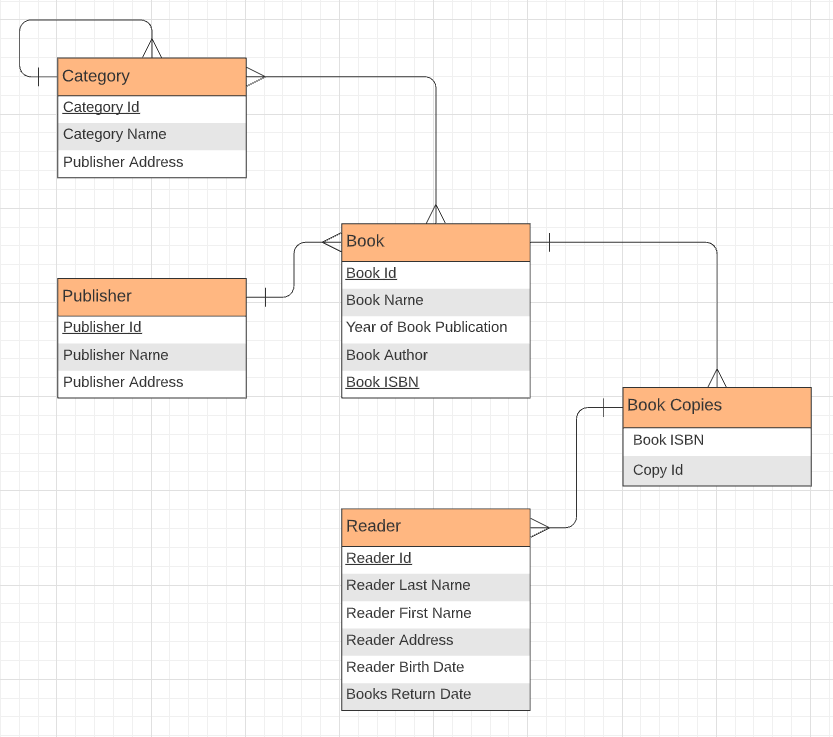
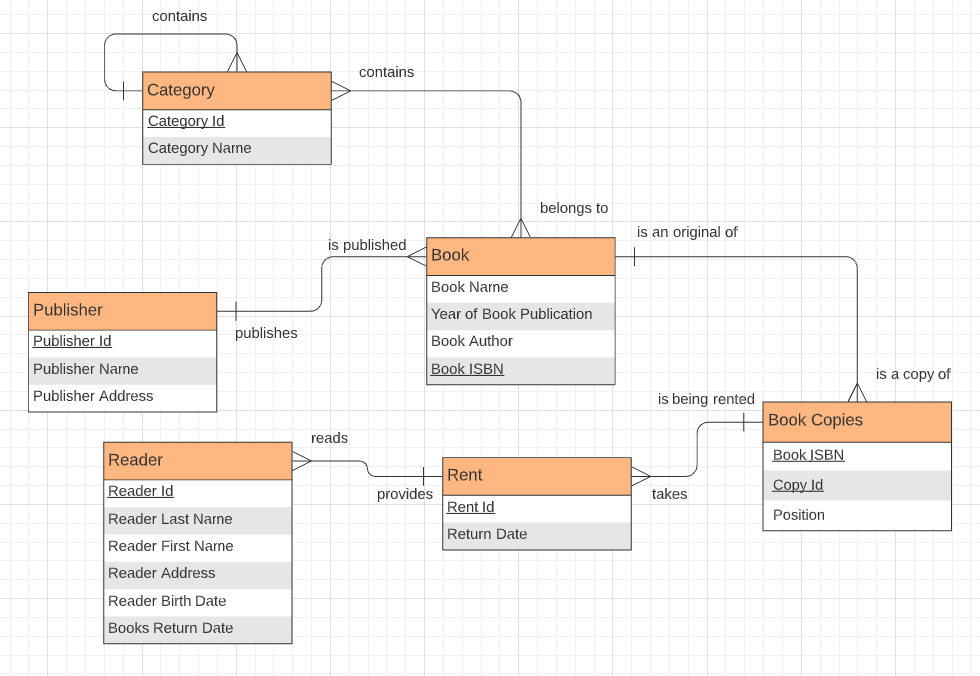
Practice 3 done.

diff --git a/Practice 3/Гарифуллин/README.md b/Practice 3/Гарифуллин/README.md
@@ -1,0 +1,78 @@
+# Гарифуллин Руслан Ильфатович Задание 3
+
+## Задача 1
+> Почему любое отношение в реляционной схеме имеет по крайней мере один ключ?
+
+Отношения между сущностями образуются при помощи уникальных ссылок, которые реализуемы в виде ключей в БД. Ключей, описывающих уникальную сущность, может быть и несколько, однако их отсутствие не позволит отношению связать сущности и отличить один экземпляр сущности от другого.
+
+## Задача 2
+**1.**
+
+Entities:
+ - **Category**: {[**id: int**, name: string, parentId: int, nullable]}
+ - **Book**: {[**ISBN: string**, name: string, publicationYear: int, author: string, categoryId: int]}
+ - **BookCopy**: {[**ISBN: string**, **copyId: int**, position: string, originalBookId: int]}
+ - **Rent**: {[**id: int**, nullable, returnDate: date]}
+ - **Reader**: {[**id: int**, lastName: string, firstName: string, address: string, birthDate: date]}
+ - **Publisher**: {[**id: int**, name: string, address: string]}
+
+Relationships:
+ - **rents**: {[**readerId: int**, **rentId: int**]}
+ - **includes**: {[**bookId: int**, **rentId: int**]}
+
+**2.1.**
+
+Entities:
+ - **Flat**: {[**id: int**, houseId: int]}
+ - **House**: {[**id: int**, streetId: int]}
+ - **Street**: {[**id: int**, cityId: int]}
+ - **City**: {[**id: int**, countryId: int]}
+ - **Country**: {[**id: int**]}
+
+**2.2.**
+
+Entities:
+ - **Referee**: {[**id: int**]}
+ - **Game**: {[**id: int**, refereeId: int, firstTeamId: int, secondTeamId: int]}
+ - **Team**: {[**id: int**]}
+
+**2.3.**
+
+Entities:
+ - **Male**: {[**id: int**, fatherId: int, motherId: int]}
+ - **Female**: {[**id: int**, fatherId: int, motherId: int]}
+
+**3.**
+
+Entities:
+ - **User**: {[**id: int**]}
+ - **Meeting**: {[**id: int**]}
+ - **ChatMessage**: {[**id: int**, authorId: int, meetingId: int]}
+ - **UploadedFile**: {[**id: int**, messageId: int]}
+
+Relationships:
+ - **participates**: {[**userId: int**, **meetingId: int**]}
+ - **sent**: {[**messageId: int**, **meetingId: int**]}
+
+## Задача 3
+**1.**
+
+Entities:
+ - **Station**: {[**name: string**, tracksCount: int, cityRegion: string, cityName: string]}
+ - **Train**: {[**trainNr: int**, length: int, startName: int, endName: int, arrivalTime: datetime, departureTime: datetime]}
+ - **City**: {[**region: string**, **name: string**]}
+
+Relationships:
+ - **connected**: {[**trainNr: int**, **stationName: string**, arrival: datetime, departure: datetime]}
+
+**2.**
+
+Entities:
+ - **Station**: {[**statNr: int**, name: string]}
+ - **Room**: {[**roomNr: int**, bedsCount: int, statNr: int]}
+ - **Patient**: {[**patientNr: int**, name: string, disease: string, doctorId: int]}
+ - **Doctor**: {[**PersNr: int**, name: string, area: string, rank: string, stationId: int]}
+ - **Caregiver**: {[**PersNr: int**, name: string, stationId: int]}
+
+Relationships:
+ - **Admission**: {[**patientNr: int**, **roomNr: int**, from: datetime, to: datetime]}
